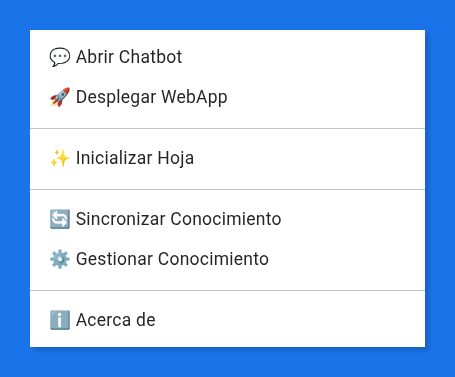
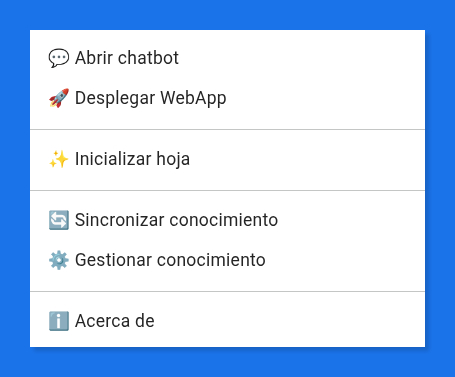
docs: actualizar capturas de dialogos y rutas de imagenes con prefijo dialogo-

diff --git a/README.md b/README.md
@@ -65,7 +65,7 @@ A diferencia de otros asistentes genéricos, **SheetsBot** está diseñado para 
 
 6.  **Asistente de despliegue guiado**: Un diálogo interactivo que acompaña paso a paso en la publicación de la WebApp, guarda la URL de forma segura en las propiedades del script, genera accesos directos y códigos QR (con opción de ampliación en nueva pestaña para proyectar en aulas o reuniones).
     <p align="center">
-      <img src="assets/asistente-despliegue.png" alt="Asistente de Despliegue de SheetsBot" width="500">
+      <img src="assets/diálogo-asistente-despliegue.png" alt="Asistente de Despliegue de SheetsBot" width="500">
     </p>
 
 7.  **Arquitectura robusta**: Incluye lógica de **Binary Exponential Backoff** para manejar reintentos automáticos.
@@ -79,6 +79,8 @@ La forma más rápida de empezar es duplicar esta plantilla, que ya incorpora to
 
 > 👉 **[Plantilla de SheetsBot](https://docs.google.com/spreadsheets/d/1LMaOotpm1fHamoVXGhtQkSRy1_HMEDtNSXfAIrN9IRY/edit?usp=sharing)**
 
+Si partes de una hoja en blanco con el código instalado, puedes inicializarla desde **🤖 SheetsBot > ✨ Inicializar hoja** para generar automáticamente la estructura, desplegables y validaciones.
+
 #### 2. Configuración del bot
 
 > ⚠ **ADVERTENCIA CRÍTICA DE PRIVACIDAD**
@@ -89,8 +91,8 @@ La forma más rápida de empezar es duplicar esta plantilla, que ya incorpora to
 
 *   **Ajustes de inteligencia**:
     *   **API_KEY**: Obtén tu clave en [Google AI Studio](https://aistudio.google.com/api-keys).
-    *   **MODELO**: Elige el modelo (ej: `gemini-3.1-flash-lite`). Puedes consultar la lista completa de [modelos y sus fechas de disponibilidad o cierre](https://ai.google.dev/gemini-api/docs/deprecations) en la documentación oficial o usar este [dashboard de modelos de Gemini](https://pfelipm.github.io/gemini-models/) para una comparativa visual y actualizada.
-    *   **THINKING_LEVEL**: Define el nivel de razonamiento (ej: `low`). Para la mayoría de casos de uso, optimizar la velocidad de respuesta y **exprimir al máximo el nivel gratuito de la API**, se recomienda utilizar el modelo `gemini-3.1-flash-lite` con un nivel `low`.
+    *   **MODELO**: Elige el modelo (ej: `gemini-flash-lite-latest`). Puedes consultar la lista completa de [modelos y sus fechas de disponibilidad o cierre](https://ai.google.dev/gemini-api/docs/deprecations) en la documentación oficial o usar este [dashboard de modelos de Gemini](https://pfelipm.github.io/gemini-models/) para una comparativa visual y actualizada.
+    *   **THINKING_LEVEL**: Define el nivel de razonamiento (ej: `low`). Para la mayoría de casos de uso, optimizar la velocidad de respuesta y **exprimir al máximo el nivel gratuito de la API**, se recomienda utilizar el modelo `gemini-flash-lite-latest` con un nivel `low`.
     *   **MODO_RAG**: Activa el checkbox si quieres que el bot use tus documentos de Drive.
     *   **ID_CARPETA_DRIVE**: Pega el ID de la carpeta donde guardas tus documentos de conocimiento.
     *   **Conocimiento**: El chatbot "sabe" todo lo que el modelo de Gemini seleccionado conoce de forma nativa. Al activar el **modo RAG**, este conocimiento se enriquece con tus propios contenidos. En este sentido, SheetsBot se comporta de forma similar a una **Gema de Gemini** a la que se le han facilitado archivos en su definición, más que a una aplicación de RAG estricto como NotebookLM.
